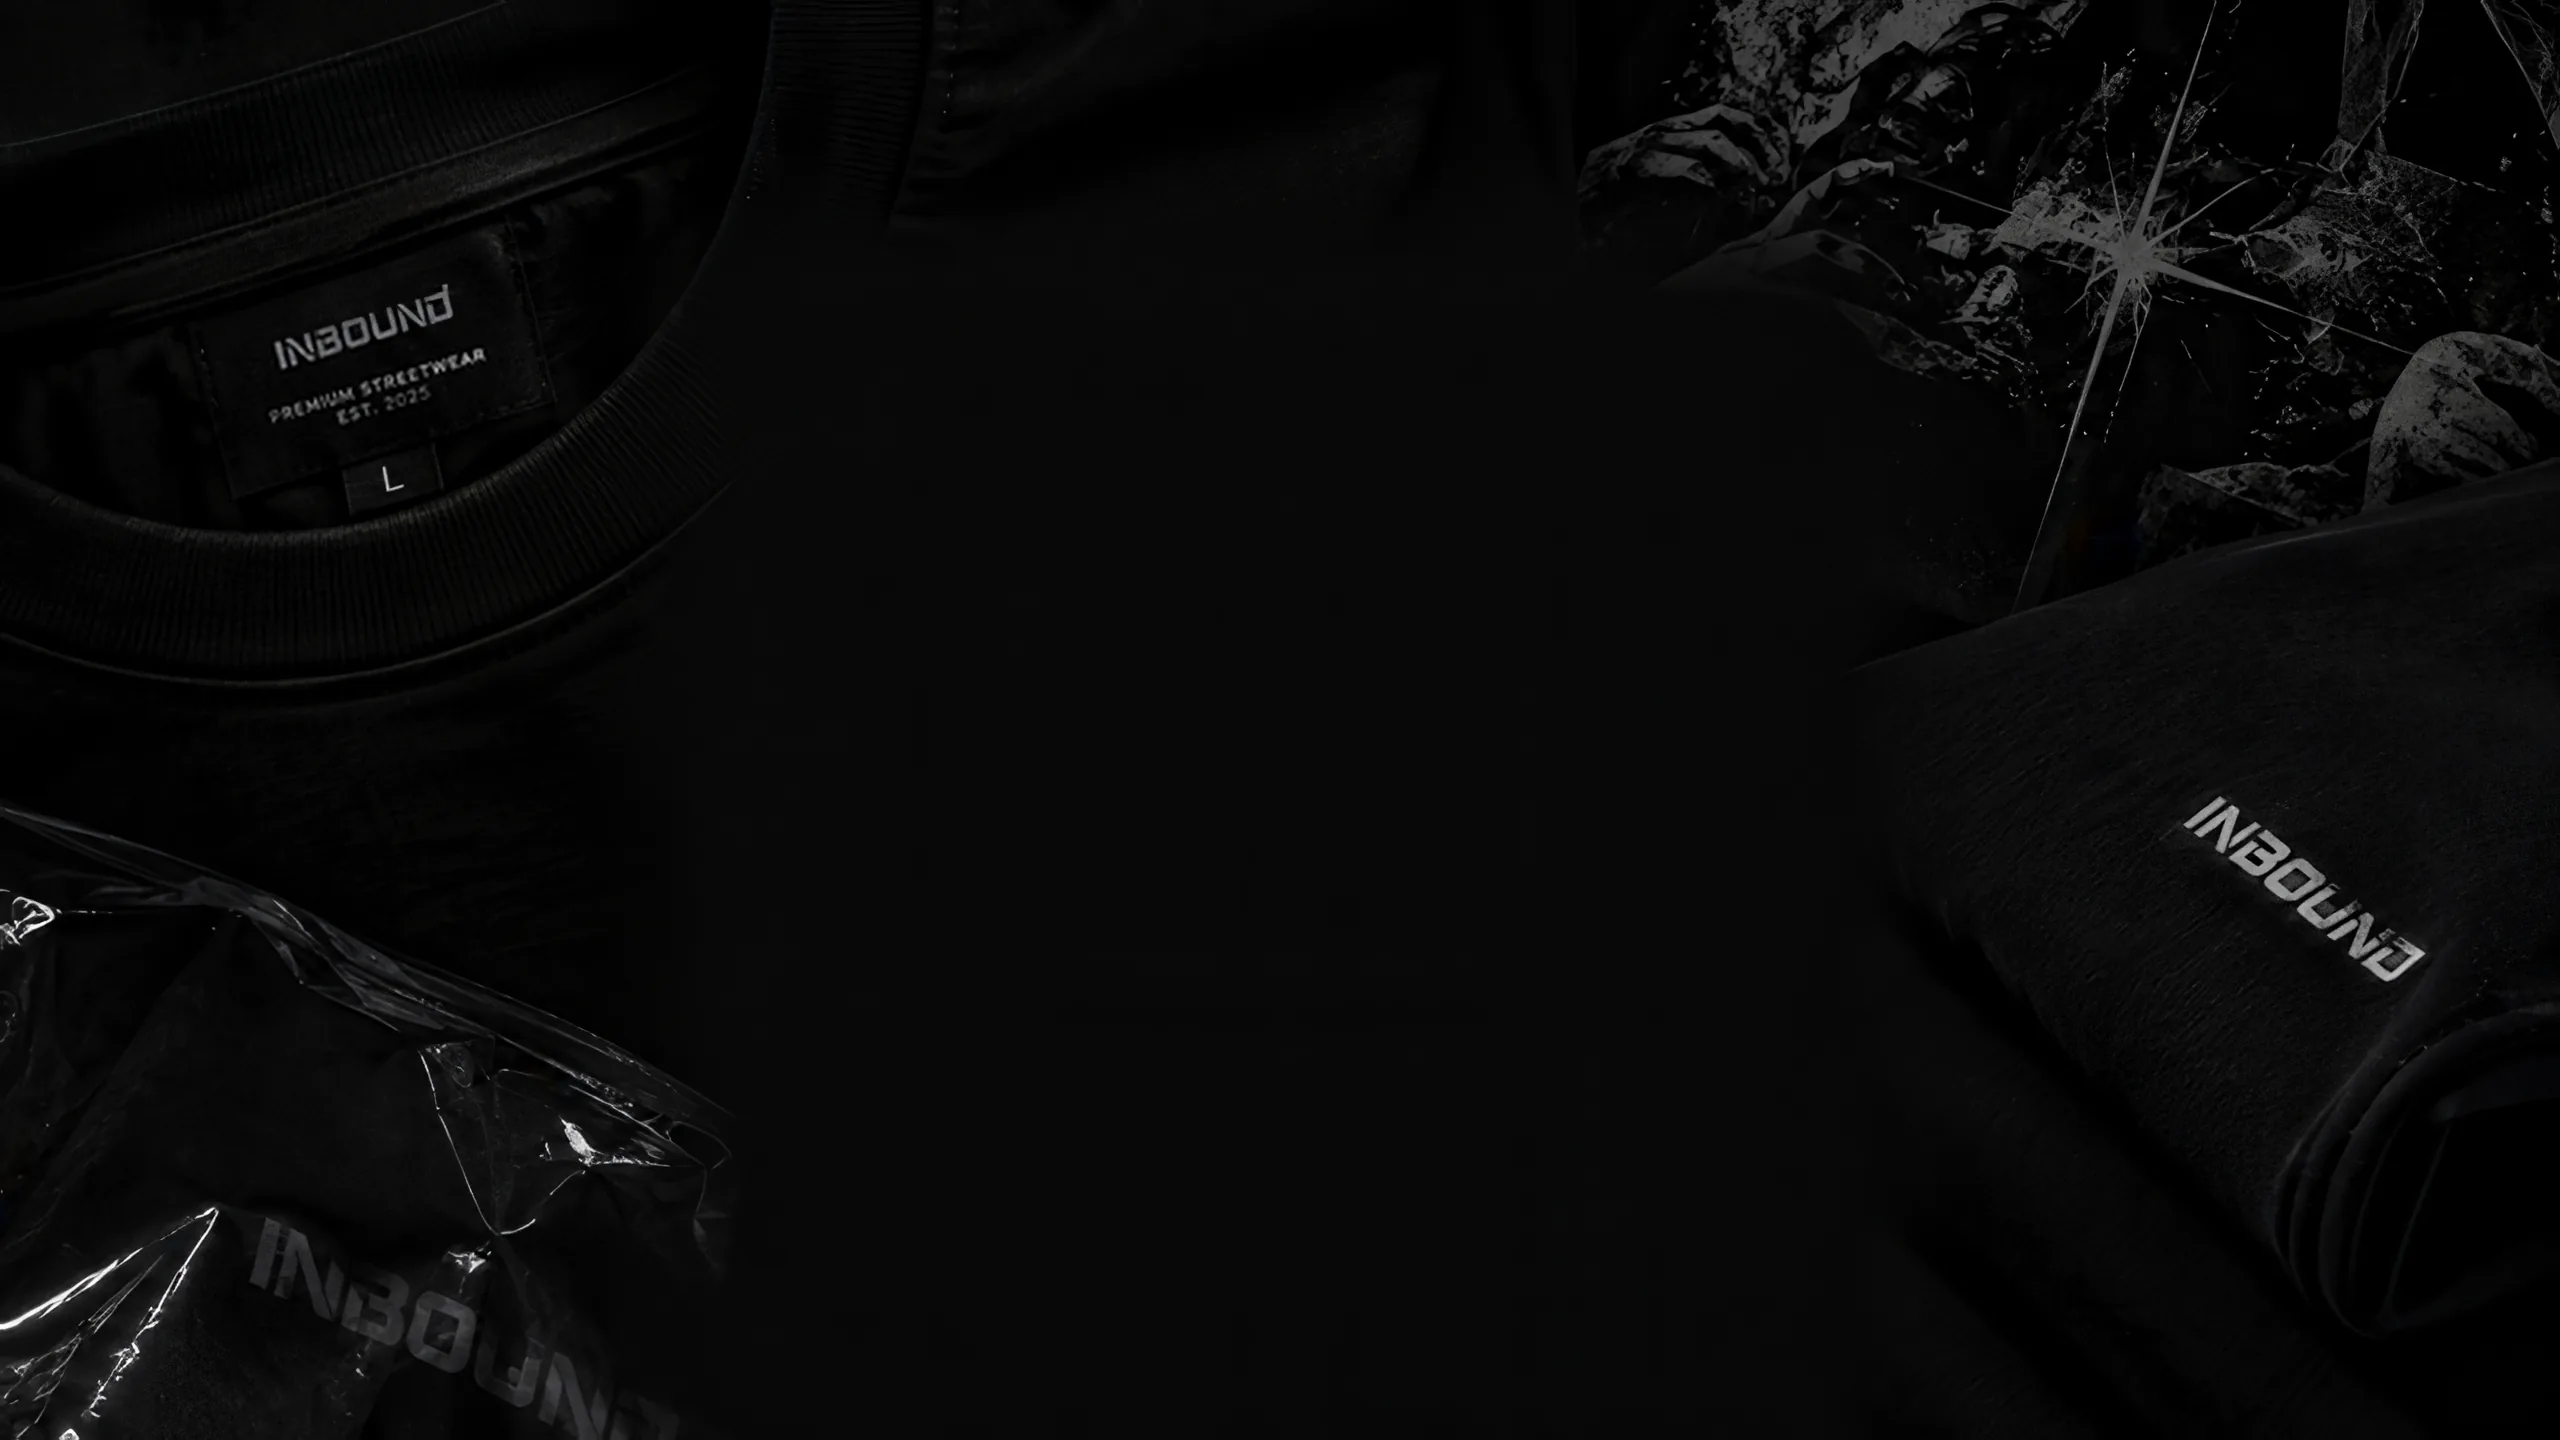
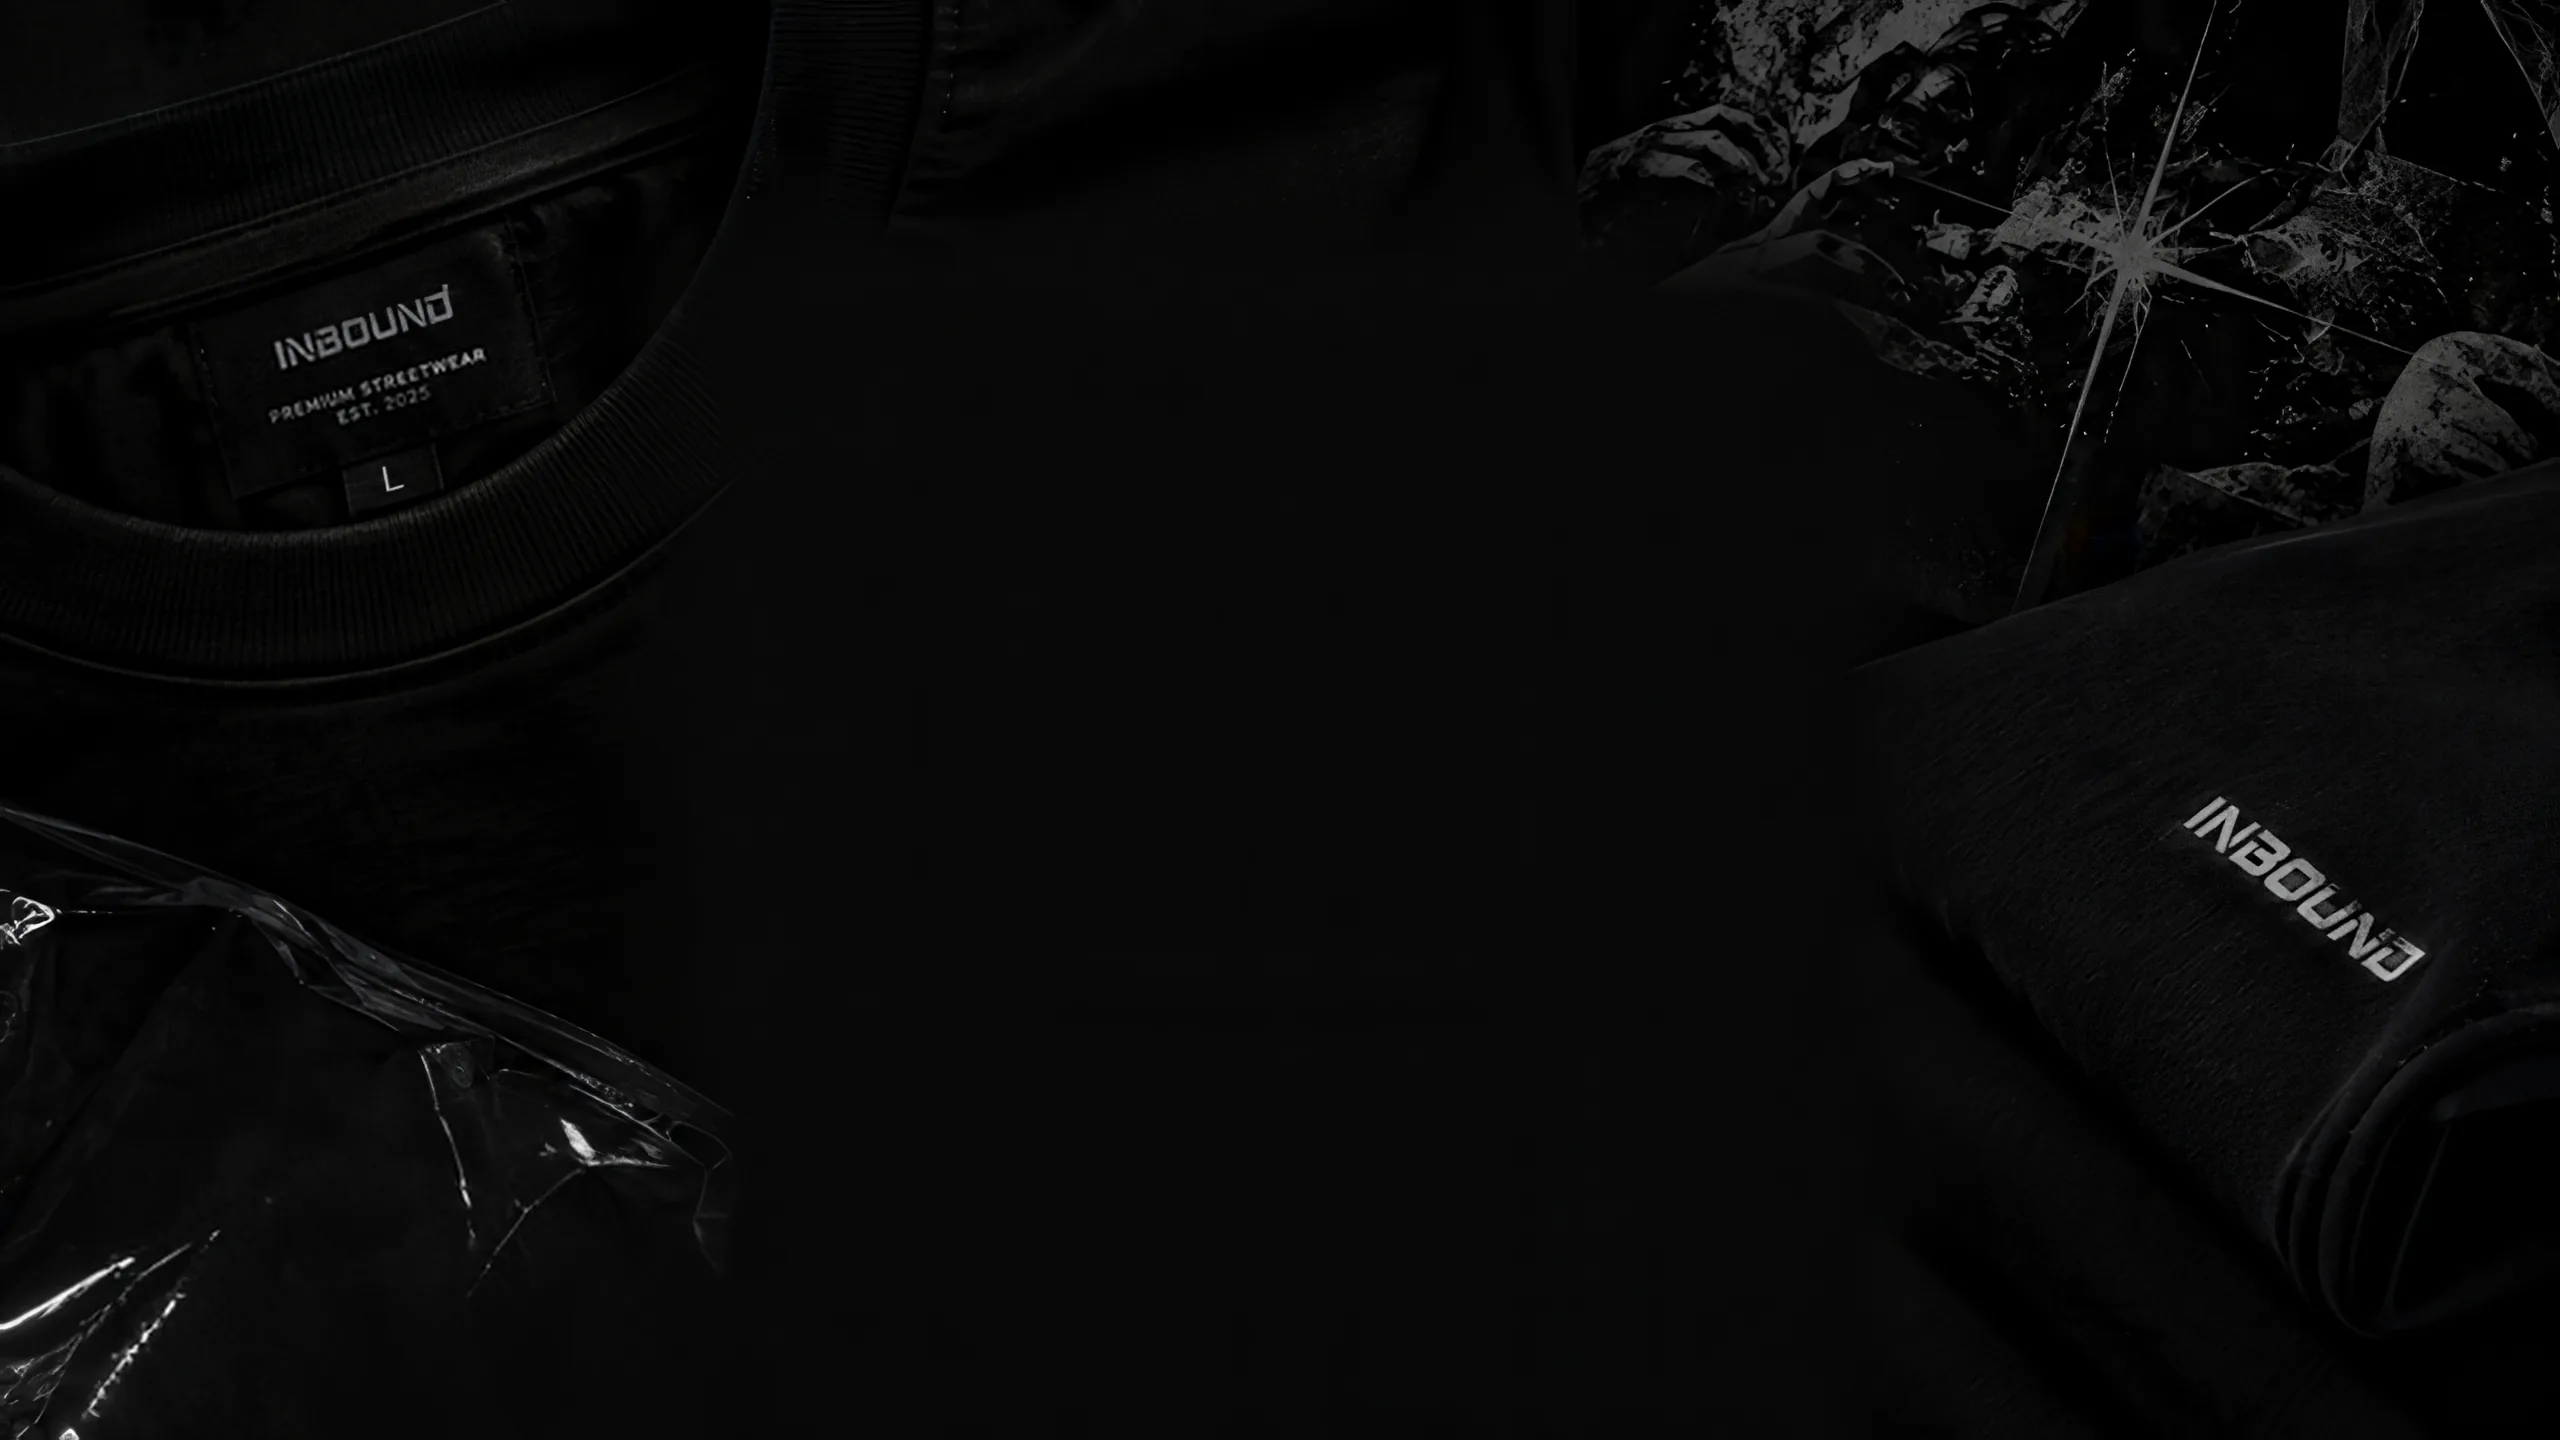
Imágenes: sin marca de agua en el cierre y fotos de líneas al doble de resolución
- Cierre: «INBOUND» del plástico borrado con Erase object (Figma IA)
- Líneas (clásica, drop top, gráfica): Boost resolution de Figma, 600x750 -> 1200x1500,
  caras y textos revisados sin deformaciones

Changed region(s): [[0.0312, 0.8438, 0.25, 1.0], [0.2188, 0.7812, 0.25, 0.8125]]

diff --git a/index.html b/index.html
@@ -627,13 +627,13 @@ a{color:inherit}
          Pendiente del cliente: la foto de Clásica es camiseta, el texto dice camisa de botón. -->
     <div class="lineas-body">
       <div class="lineas-media" aria-hidden="true">
-        <img src="assets/lineas/clasica.jpg" alt="" width="600" height="750" loading="lazy">
-        <img src="assets/lineas/drop-top.jpg" alt="" width="600" height="750" loading="lazy">
-        <img src="assets/lineas/grafica.jpg" alt="" width="600" height="750" loading="lazy">
+        <img src="assets/lineas/clasica.jpg" alt="" width="1200" height="1500" loading="lazy">
+        <img src="assets/lineas/drop-top.jpg" alt="" width="1200" height="1500" loading="lazy">
+        <img src="assets/lineas/grafica.jpg" alt="" width="1200" height="1500" loading="lazy">
       </div>
       <ol class="lines">
         <li class="line">
-          <figure class="line-media"><img src="assets/lineas/clasica.jpg" alt="Dos modelos de frente y de espalda con camiseta negra lisa y logo INBOUND discreto" width="600" height="750" loading="lazy"></figure>
+          <figure class="line-media"><img src="assets/lineas/clasica.jpg" alt="Dos modelos de frente y de espalda con camiseta negra lisa y logo INBOUND discreto" width="1200" height="1500" loading="lazy"></figure>
           <p class="data line-num">01</p>
           <h3 class="h3">Clásica</h3>
           <p class="data line-tags">Clásico · Elegante · Atemporal</p>
@@ -641,7 +641,7 @@ a{color:inherit}
           <ul class="swatches" aria-label="Colores: negro, blanco, gris, beige y azul marino"><li style="--c:#080808"></li><li style="--c:#FFFFFF"></li><li style="--c:#858585"></li><li style="--c:#D6D0C5"></li><li style="--c:#1F2A44"></li></ul>
         </li>
         <li class="line">
-          <figure class="line-media"><img src="assets/lineas/drop-top.jpg" alt="Modelo de frente y de espalda con drop top negro con el gráfico Destello" width="600" height="750" loading="lazy"></figure>
+          <figure class="line-media"><img src="assets/lineas/drop-top.jpg" alt="Modelo de frente y de espalda con drop top negro con el gráfico Destello" width="1200" height="1500" loading="lazy"></figure>
           <p class="data line-num">02</p>
           <h3 class="h3">Drop top</h3>
           <p class="data line-tags">Drop top · Moderna · Versátil</p>
@@ -649,7 +649,7 @@ a{color:inherit}
           <ul class="swatches" aria-label="Colores: negro, blanco, gris y beige"><li style="--c:#080808"></li><li style="--c:#FFFFFF"></li><li style="--c:#858585"></li><li style="--c:#D6D0C5"></li></ul>
         </li>
         <li class="line">
-          <figure class="line-media"><img src="assets/lineas/grafica.jpg" alt="Dos modelos con camiseta oversize negra, una de espalda con estampado de siluetas azules" width="600" height="750" loading="lazy"></figure>
+          <figure class="line-media"><img src="assets/lineas/grafica.jpg" alt="Dos modelos con camiseta oversize negra, una de espalda con estampado de siluetas azules" width="1200" height="1500" loading="lazy"></figure>
           <p class="data line-num">03</p>
           <h3 class="h3">Gráfica</h3>
           <p class="data line-tags">Estampados · Urbano · Expresión</p>
